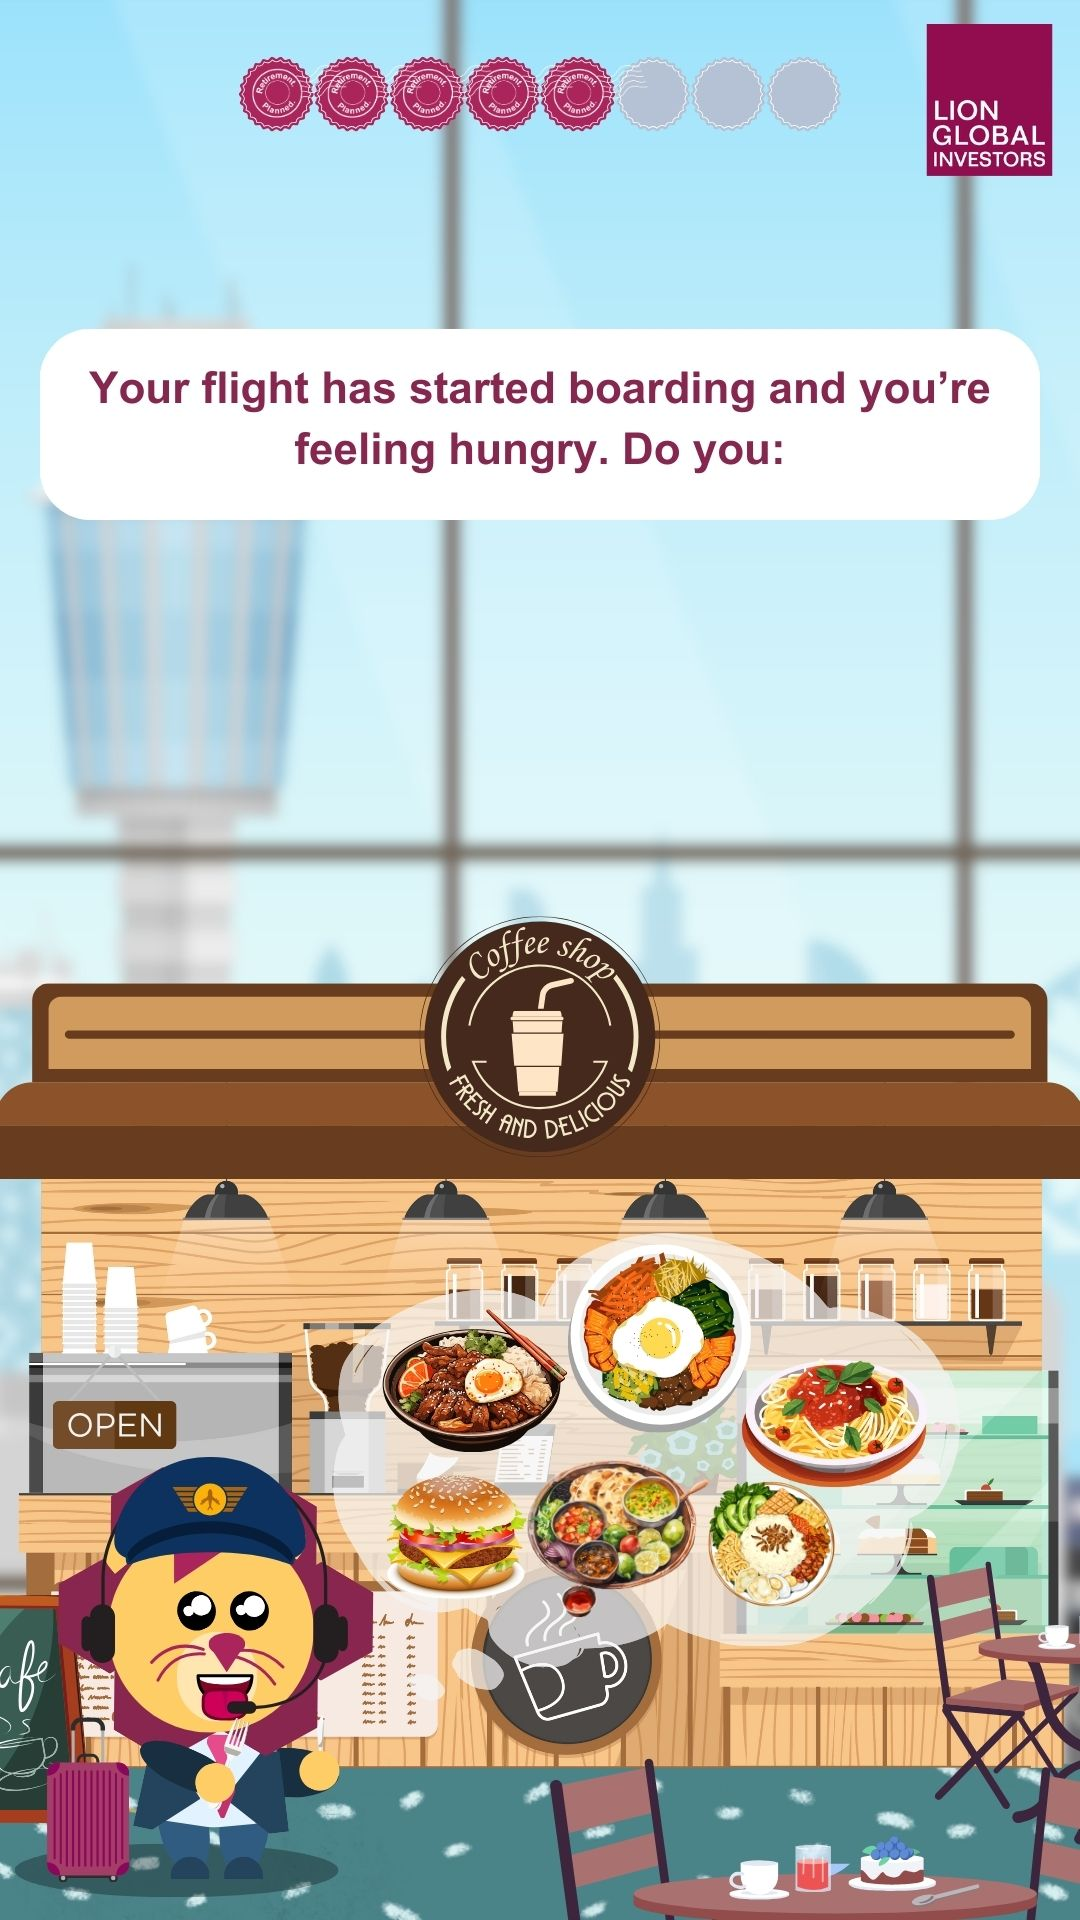
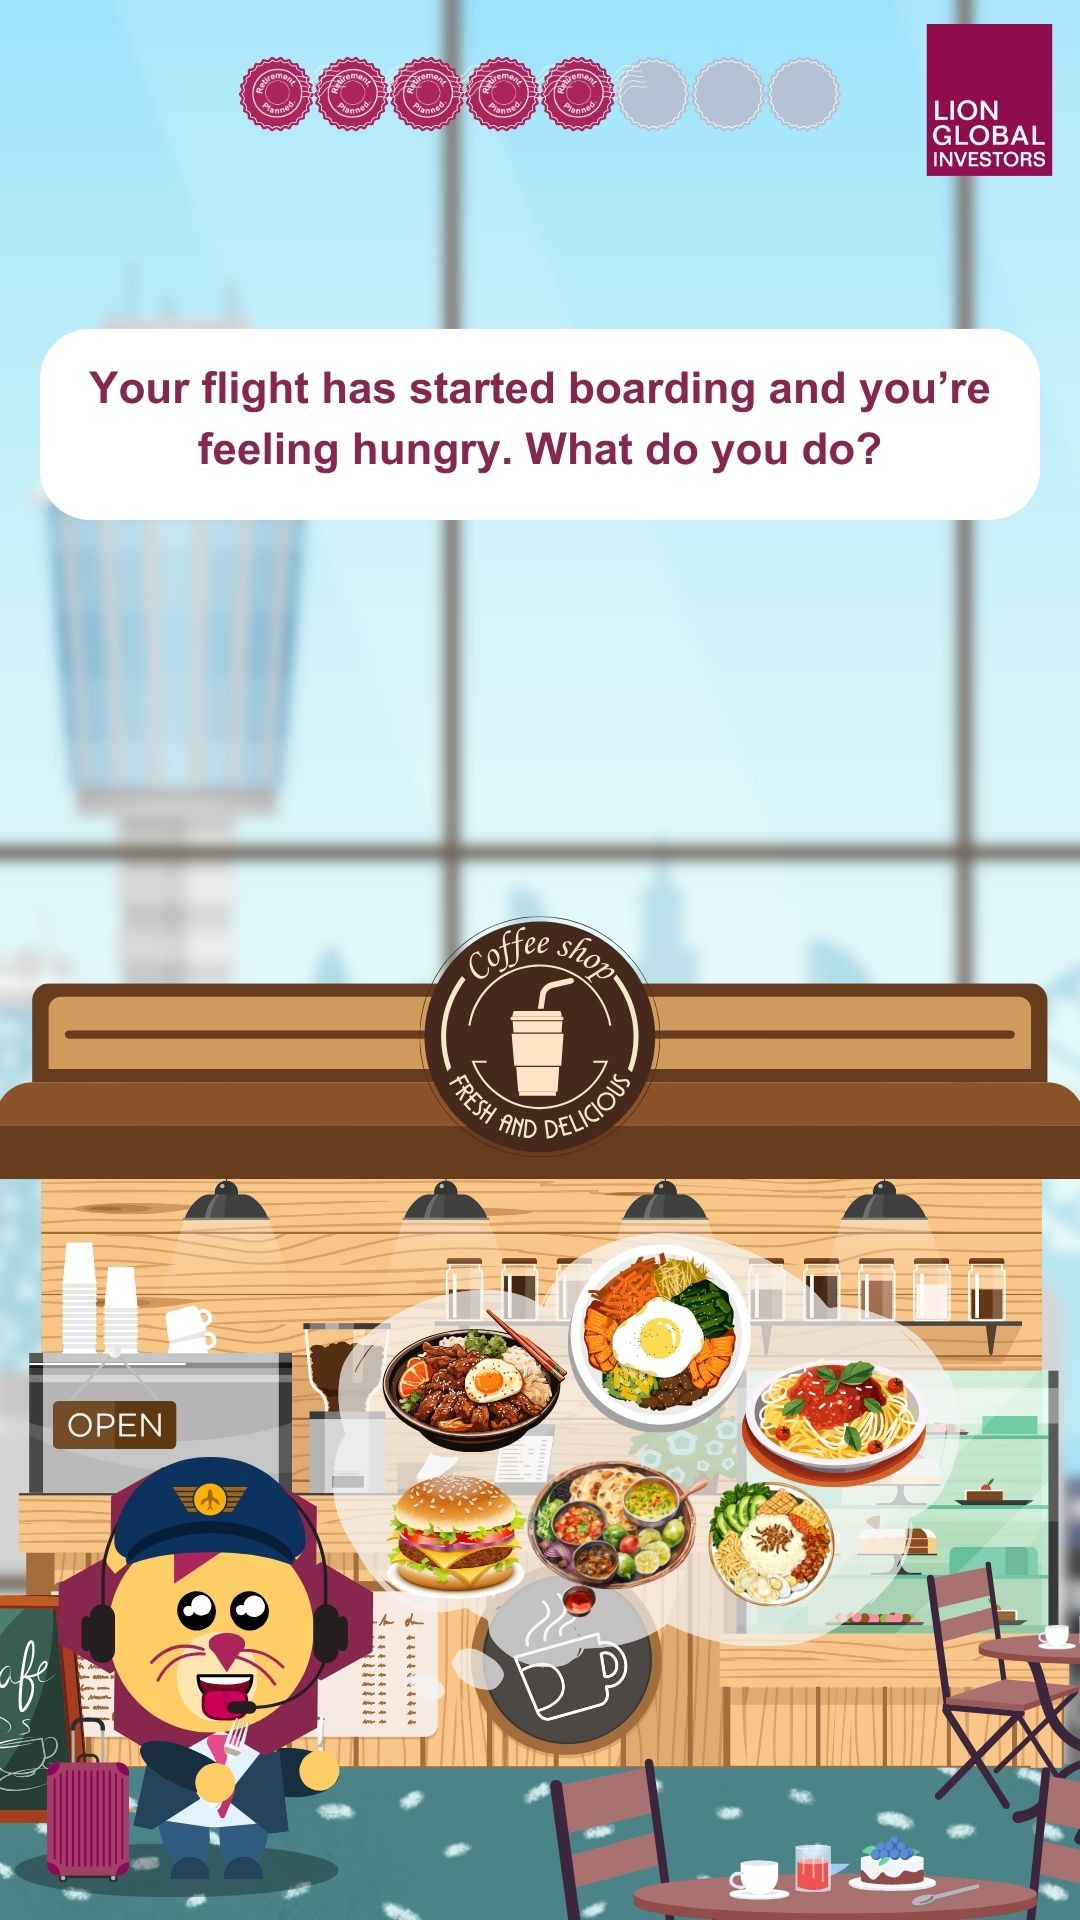
updated questions and answers

Changed region(s): [[0.1833, 0.2188, 0.825, 0.25]]

diff --git a/script.js b/script.js
@@ -6,8 +6,8 @@ class Quiz {
         image: `quiz-Q1.jpg`,
         question: `As you prepare to embark on a 14 days trip, you pack your bag. <br> How much clothing do you pack?`,
         answers: {
-          Wealth: `Bring 2 - 3 sets of clothes only`,
-          Capital: `Pack extra clothing in case of weather changes`,
+          Wealth: `Bring only 2 - 3 sets of clothes`,
+          Capital: `Pack extra clothing for weather changes`,
           Legacy: `Pack an outfit for each day`,
           Income: `Pack half and buy the rest there`,
         },
@@ -16,7 +16,7 @@ class Quiz {
         image: `quiz-Q2.jpg`,
         question: `Who is coming with you on your trip?`,
         answers: {
-          Capital: `2 - 3 friends to split cost`,
+          Capital: `2 - 3 friends to split the cost`,
           Legacy: `Bring the whole kampong of family and / or friends`,
           Wealth: `Traveling solo for adventure`,
           Income: `Join a tour group for convenience`,
@@ -29,7 +29,7 @@ class Quiz {
           Legacy: `3 hours early to go shopping/eating`,
           Capital: `3 hours early because kiasu`,
           Income: `2 hours before to be just right on time`,
-          Wealth: `1 hour before your flight`,
+          Wealth: `1 hour before the flight`,
         },
       },
       {
@@ -37,19 +37,19 @@ class Quiz {
         question: `You're told that your flight will be delayed overnight. <br> What do you do first?`,
         answers: {
           Income: `Pay extra to get onto the next available flight`,
-          Wealth: `Request for accommodation and meal allowance from the airline company`,
-          Capital: `Wait for the delayed flight patiently`,
-          Legacy: `Start checking how much can be claimed from travel insurance`,
+          Wealth: `Request accommodation and meal allowance from the airline`,
+          Capital: `Wait patiently for the delayed flight`,
+          Legacy: `Check how much can be claimed from travel insurance`,
         },
       },
       {
         image: `quiz-Q5.jpg`,
         question: `Your flight has started boarding and you're feeling hungry. <br> What do you do?`,
         answers: {
-          Wealth: `Eat at a restaurant at the transit area believing you can finish eating in 15 minutes`,
+          Wealth: `Eat at a restaurant in the transit area believing you can finish in 15 minutes`,
           Capital: `Wait for the in-flight meal`,
-          Legacy: `Get a snack at the convenience store and eat while waiting to board the plane`,
-          Income: `Queue to buy a takeaway at transit area and eat on the aircraft once you board`,
+          Legacy: `Get a snack at the convenience store and eat while waiting to board`,
+          Income: `Queue to buy a takeaway in the transit area and eat on the aircraft`,
         },
       },
       {

diff --git a/style.css b/style.css
@@ -776,7 +776,7 @@ footer {
         /* padding-left: 580px; */
         transform: translate(-50%,-50%);
         left: 67%;
-        margin-top: 220px;
+        margin-top: 200px;
         width: 180px;
     }
 
